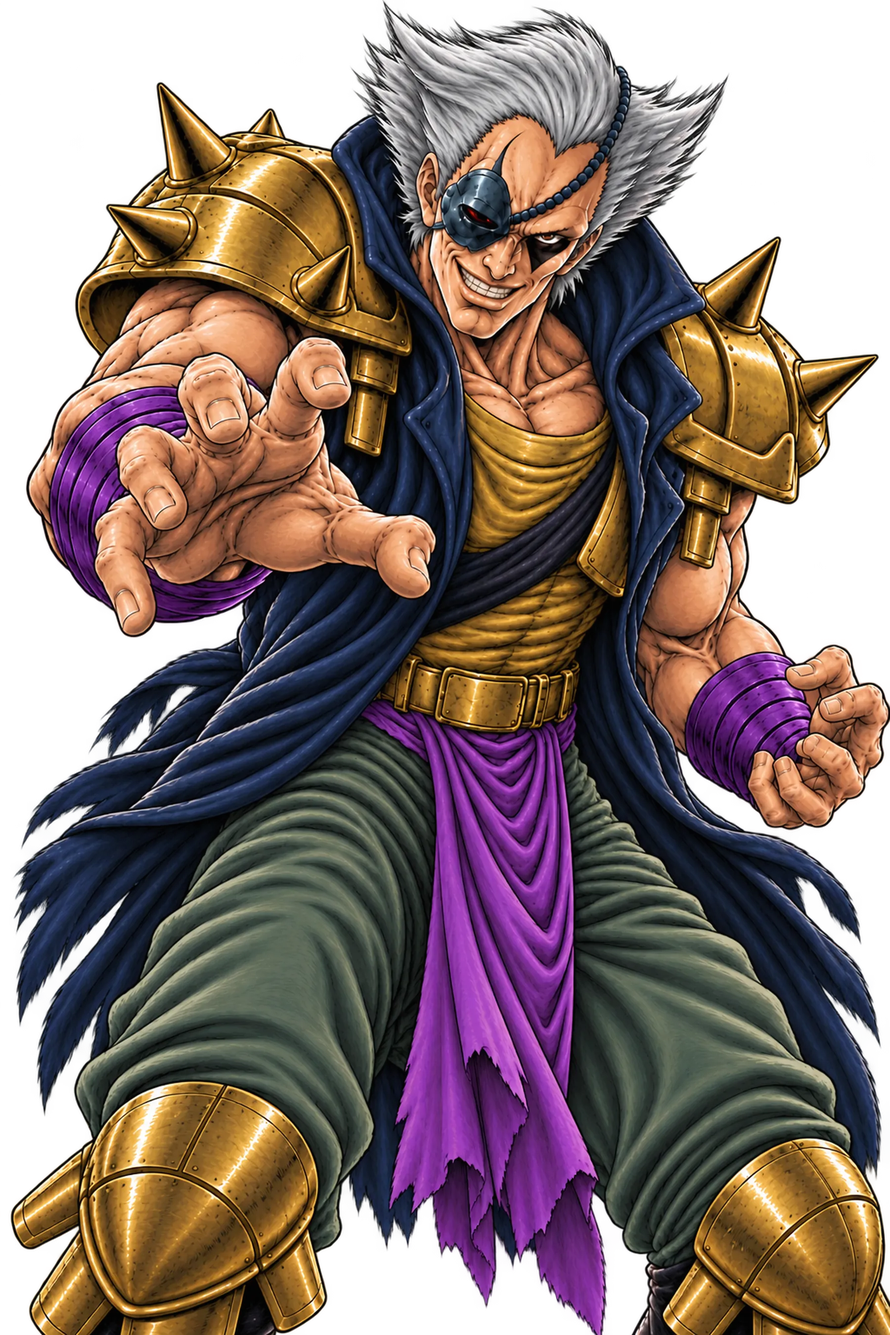
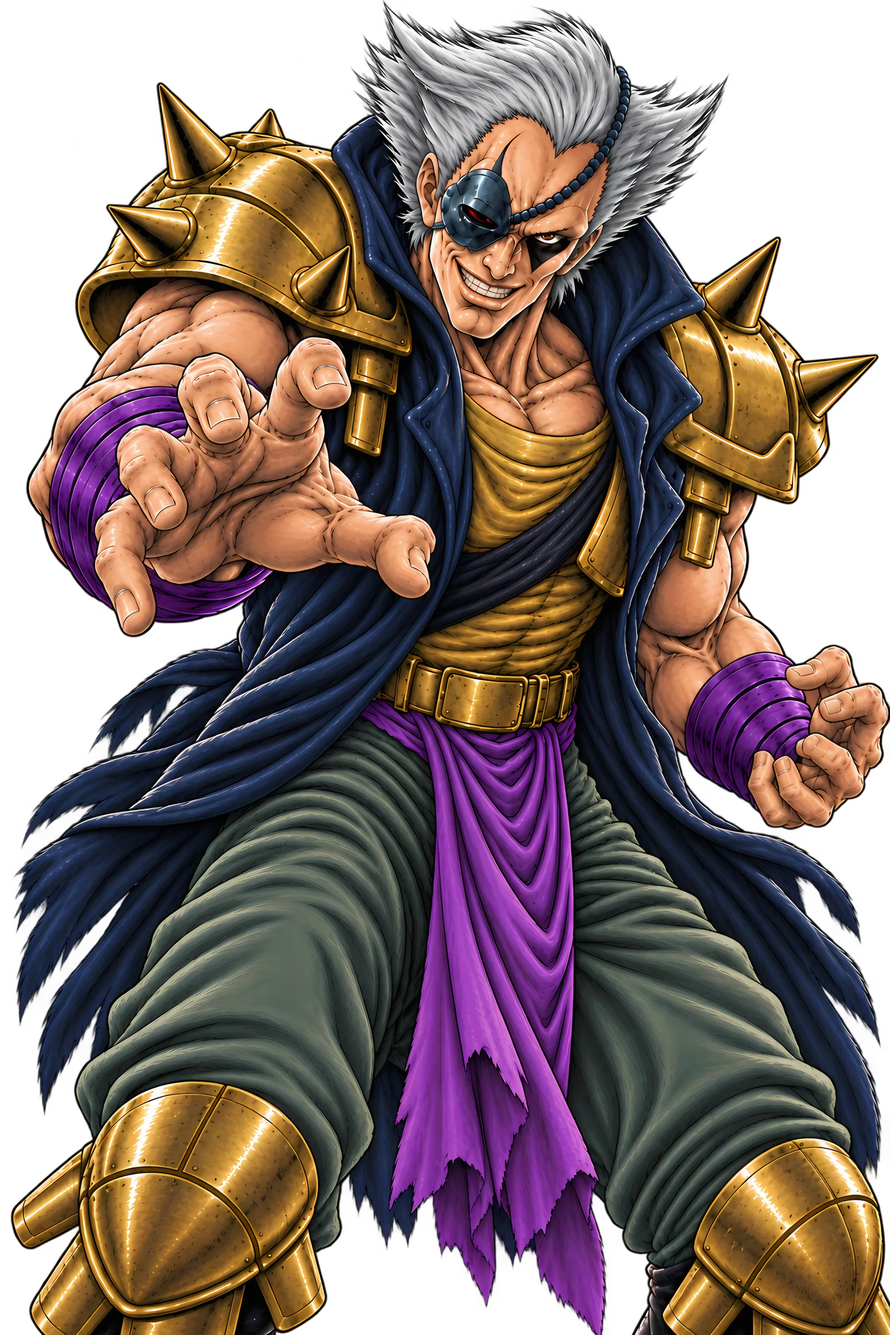
Ultime HD de David : upscale
Claude-Session: https://claude.ai/code/session_01KMxgz3a7L8x3NPii2Ytgz6

diff --git a/public/index.html b/public/index.html
@@ -6183,7 +6183,7 @@ const CHANGELOG=[
   en:["First online release: solo vs AI, online versus, tutorial, FR / EN / IT"],
   it:["Prima versione online: solo contro l'IA, versus online, tutorial, FR / EN / IT"]}
 ];
-const APP_VERSION=CHANGELOG[0].v, APP_BUILD="20261019215233";   // APP_BUILD : écrit par tools/export_public.py à chaque mise en ligne (plusieurs par version possibles)
+const APP_VERSION=CHANGELOG[0].v, APP_BUILD="20261019215938";   // APP_BUILD : écrit par tools/export_public.py à chaque mise en ligne (plusieurs par version possibles)
 function renderChangelog(sel=[]){
   try{ localStorage.setItem("boc-seen-ver",APP_VERSION); }catch(e){}
   const fmt=d=>{ try{ return new Date(d+"T12:00:00").toLocaleDateString(LANG==="en"?"en-GB":LANG==="it"?"it-IT":LANG==="ja"?"ja-JP":"fr-BE",{day:"numeric",month:"long",year:"numeric"}); }catch(e){ return d; } };

diff --git a/public/sw.js b/public/sw.js
@@ -1,6 +1,6 @@
 // Battle of the Century : cache hors ligne des images, sons et polices (la page et l'API restent toujours à jour)
 const VERSION = "0.99.98";
-const ASTAMP = "741289a0e8";   // empreinte des images / sons (écrite par tools/export_public.py)
+const ASTAMP = "c6cc4beec8";   // empreinte des images / sons (écrite par tools/export_public.py)
 const CACHE = "boc2-" + VERSION + "-" + (typeof ASTAMP === "string" ? ASTAMP : "");   // boc2 : on repart de zéro (anciennes images restées dans le cache du navigateur)
 const PRECACHE = ["./", "assets/icon-192.png", "assets/bg-city.webp", "assets/bg-ruins.webp"];
 
